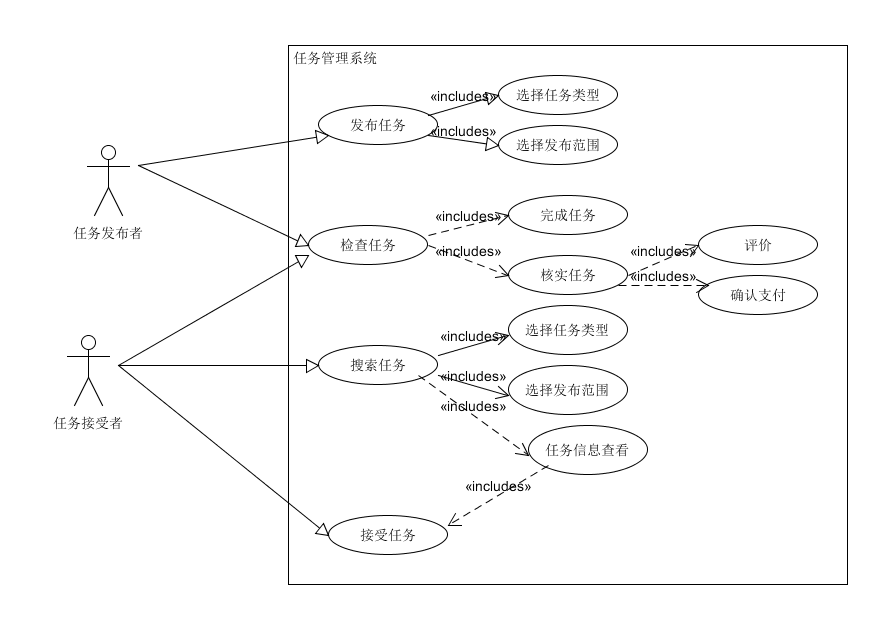
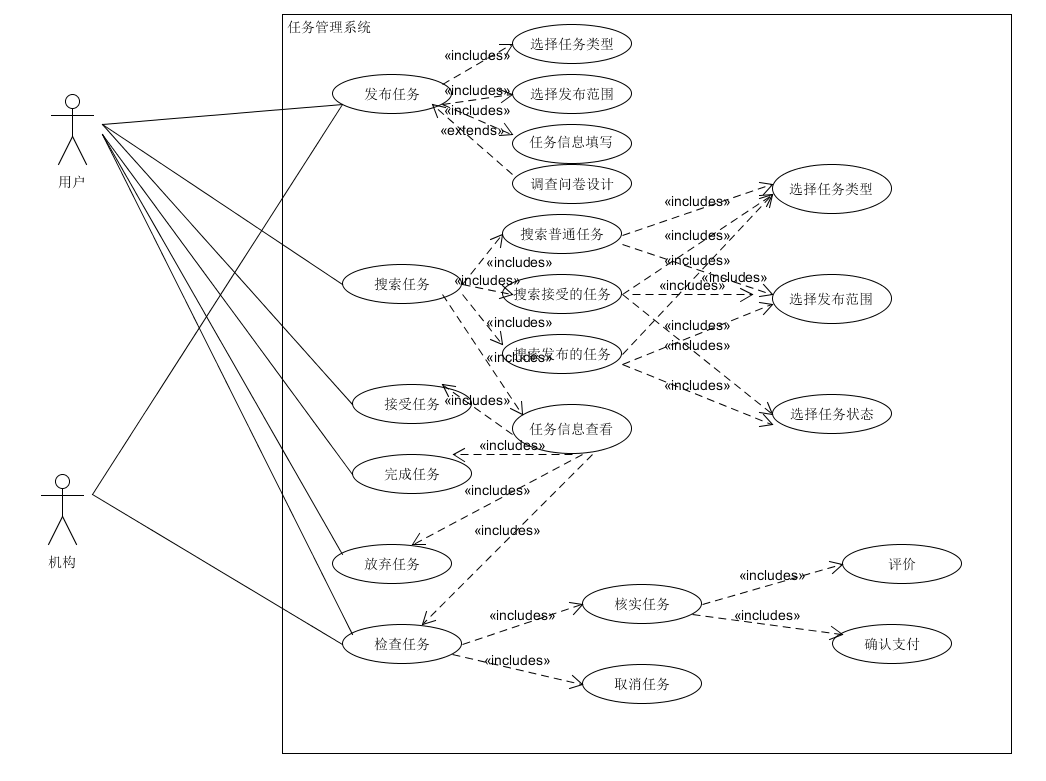
task file

diff --git a/06-02-use-cases.md b/06-02-use-cases.md
@@ -23,8 +23,8 @@
 用户在可接任务列表中选择进入任务详情界面查看任务基本信息，并点击接受任务。系统检查并更新任务接受数量额度，记录任务接受者的信息，修改任务的接受者列表信息，更新数据库信息。用户接受任务成功并查看任务的进一步信息。  
 
 交替场景：
-- 用户点击接受任务时，系统检查任务接受数量额度已满，用户接受任务失败，弹出提示信息并返回任务列表
-
+- 用户点击接受任务时，系统检查任务接受数量额度已满或用户的评分不满足任务的要求时，用户接受任务失败，弹出提示信息并返回任务列表
+- 用户点击接受任务时，系统检查到该任务已不存在时，用户接受任务失败，弹出提示信息并返回任务列表
 活动图  
 ![接收任务活动图](image/activity_acceptTask.png)  
 
@@ -39,7 +39,21 @@
 活动图：  
 ![搜索任务活动图](image/activity_searchTask.png)  
 
-### 4. 放弃任务
+
+### 4. 搜索接受的任务与发布的任务
+主成功场景：  
+用户选择任务类型，任务发布范围和任务状态。系统根据用户选择的任务类型，任务发布范围和任务状态，从数据库中筛选任务并显示。
+
+交替场景：  
+- 如果系统从数据库筛选出来的任务的发布者与用户之间存在屏蔽的关系，则去除该任务，不予显示。
+- 如果筛选之后没有能显示的任务，则应显示找不到相关任务并提示用户修改筛选条件。
+
+活动图：  
+![搜索接受的任务与发布活动图](image/activity_searchAAndRTask.jpg)  
+
+
+
+### 5. 放弃任务
 主成功场景：  
 用户进入已接受任务详情界面，选择放弃任务。系统修改任务接受者列表，更新数据库，将任务重新发布，并发送消息提醒任务发布者。任务发布者对放弃任务的用户进行评价。系统更新放弃任务的用户的个人信誉信息。  
 
@@ -49,7 +63,7 @@
 活动图：  
 ![放弃任务活动图](image/activity_giveUpTask.png)  
 
-### 5. 取消任务
+### 6. 取消任务
 主成功场景：  
 任务发布者进入已发布任务的任务详情界面，选择取消任务。系统检查任务接受者列表信息，删除该任务信息，将预支付的任务酬金返回至任务发布者账号中，更新数据库。
 
@@ -59,7 +73,7 @@
 活动图：  
 ![取消任务活动图](image/activity_cancelTask.png)  
 
-### 6. 核实与完成任务
+### 7. 核实与完成任务
 主成功场景：  
 任务接受者完成任务后，进入任务的详情界面，提交任务完成信息。系统发送信息提醒任务发布者。任务发布者进入该任务的详情界面，查看任务接受者的完成信息，核实情况后，确认任务完成，进行评价打分。系统更新任务状态和任务接受者的个人信誉信息，将任务报酬支付给任务接受者，更新数据库。  
 
@@ -70,7 +84,7 @@
 活动图：  
 ![核实与完成任务活动图](image/activity_finishTask.png)    
 
-### 7. 申请加入小组
+### 8. 申请加入小组
 主成功场景：  
 用户通过小组id/组名/标签搜索小组，选择小组申请加入，小组组长收到验证消息，验证通过，用户加入到小组当中  
 
@@ -81,7 +95,7 @@
 
 ![申请加入小组活动图](image/activity_applyJoinGroup.png)  
 
-### 8. 退出小组
+### 9. 退出小组
 主成功场景：  
 用户进入已加入的小组，选择退出小组；系统向小组组长发送通知，更新小组的成员列表，更新数据库。  
 
@@ -90,7 +104,7 @@
 
 ![退出小组活动图](image/activity_withdrawGroup.png)  
 
-### 9. 注册
+### 10. 注册
 
 **主成功场景：** 新用户进入注册页面进行注册，选择注册方式为用户注册或机构注册，接着填写个人资料以及身份验证信息，提交给服务器进行认证，认证通过后，跳转至登录界面进行登录。
 
@@ -100,7 +114,7 @@
 
 ![](./image/activity_register.png)
 
-### 10. 登录
+### 11. 登录
 
 **主成功场景：** 未登录用户进入登录页面进行登录，选择用户类型，输入用户名和密码后，提交给服务器进行验证，验证通过后变为登录状态并跳转至主页面。
 

diff --git a/06-05-system-sequence-diagrams.md b/06-05-system-sequence-diagrams.md
@@ -28,3 +28,6 @@
 
 ## 放弃任务
 ![](./image/ssd/Sequence_taskQuit.png)
+
+## 取消任务
+![](./image/ssd/Sequence_taskCancel.png)

diff --git a/06-03-domian_model.md b/06-03-domian_model.md
@@ -1,3 +1,3 @@
 # Domain Model
 
-![](./image/domain_model0.png)
+![](./image/domain_model1.jpg)
